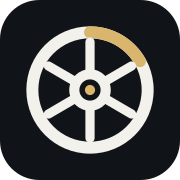
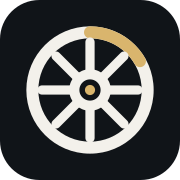
Website: 8-spoke wheel, maintainer name Islam Mahmoud

Changed region(s): [[0.5556, 0.2778, 0.8056, 0.7222], [0.1944, 0.2778, 0.4444, 0.7222]]

diff --git a/website/scripts/og.html b/website/scripts/og.html
@@ -11,8 +11,8 @@ h1{font-size:104px;line-height:1;letter-spacing:-.045em;margin:22px 0 0;font-wei
 h1 span{color:#D9B56D}
 p{font-size:30px;color:#A4ADB6;margin:30px 0 0;letter-spacing:-.01em}
 </style></head><body><div class="g"></div>
-<svg class="w" width="560" height="560" viewBox="0 0 32 32"><circle cx="16" cy="16" r="12.5" fill="none" stroke="#303942" stroke-width=".9"/><path d="M16 3.5A12.5 12.5 0 0 1 26.83 9.75" fill="none" stroke="#D9B56D" stroke-width=".9" stroke-linecap="round"/><path d="M16 12.6V5.6M16 19.4v7M19 14.3l6-3.5M13 17.7l-6 3.5M19 17.7l6 3.5M13 14.3l-6-3.5" stroke="#303942" stroke-width=".6" stroke-linecap="round"/><circle cx="16" cy="16" r="3.4" fill="none" stroke="#303942" stroke-width=".8"/><circle cx="16" cy="16" r=".7" fill="#D9B56D"/></svg>
-<div class="c"><div class="b"><svg width="44" height="44" viewBox="0 0 32 32"><circle cx="16" cy="16" r="12.5" fill="none" stroke="#F3F1EB" stroke-width="2.4"/><path d="M16 3.5A12.5 12.5 0 0 1 26.83 9.75" fill="none" stroke="#D9B56D" stroke-width="2.4" stroke-linecap="round"/><path d="M16 12.6V5.6M16 19.4v7M19 14.3l6-3.5M13 17.7l-6 3.5M19 17.7l6 3.5M13 14.3l-6-3.5" stroke="#F3F1EB" stroke-width="1.8" stroke-linecap="round"/><circle cx="16" cy="16" r="3.4" fill="none" stroke="#F3F1EB" stroke-width="2"/></svg>Reinvent the Wheel</div>
+<svg class="w" width="560" height="560" viewBox="0 0 32 32"><circle cx="16" cy="16" r="12.5" fill="none" stroke="#303942" stroke-width=".9"/><path d="M16 3.5A12.5 12.5 0 0 1 26.83 9.75" fill="none" stroke="#D9B56D" stroke-width=".9" stroke-linecap="round"/><path d="M16 12.6V5.6M16 19.4v7M19.4 16h7M12.6 16h-7M18.4 13.6l4.95-4.95M13.6 18.4l-4.95 4.95M18.4 18.4l4.95 4.95M13.6 13.6l-4.95-4.95" stroke="#303942" stroke-width=".6" stroke-linecap="round"/><circle cx="16" cy="16" r="3.4" fill="none" stroke="#303942" stroke-width=".8"/><circle cx="16" cy="16" r=".7" fill="#D9B56D"/></svg>
+<div class="c"><div class="b"><svg width="44" height="44" viewBox="0 0 32 32"><circle cx="16" cy="16" r="12.5" fill="none" stroke="#F3F1EB" stroke-width="2.4"/><path d="M16 3.5A12.5 12.5 0 0 1 26.83 9.75" fill="none" stroke="#D9B56D" stroke-width="2.4" stroke-linecap="round"/><path d="M16 12.6V5.6M16 19.4v7M19.4 16h7M12.6 16h-7M18.4 13.6l4.95-4.95M13.6 18.4l-4.95 4.95M18.4 18.4l4.95 4.95M13.6 13.6l-4.95-4.95" stroke="#F3F1EB" stroke-width="1.8" stroke-linecap="round"/><circle cx="16" cy="16" r="3.4" fill="none" stroke="#F3F1EB" stroke-width="2"/></svg>Reinvent the Wheel</div>
 <div class="e">Open source · Offline first · macOS &amp; Android</div>
 <h1>Civilization,<br><span>Offline.</span></h1>
 <p>Preserve, access and share knowledge on the devices you already own.</p></div>

diff --git a/website/src/config/site.ts b/website/src/config/site.ts
@@ -24,7 +24,7 @@ export const site = {
   },
 
   maintainer: {
-    name: "Eslam Mahmoud",
+    name: "Islam Mahmoud",
     url: "https://github.com/eslam-mahmoud" as string | null,
   },
 
